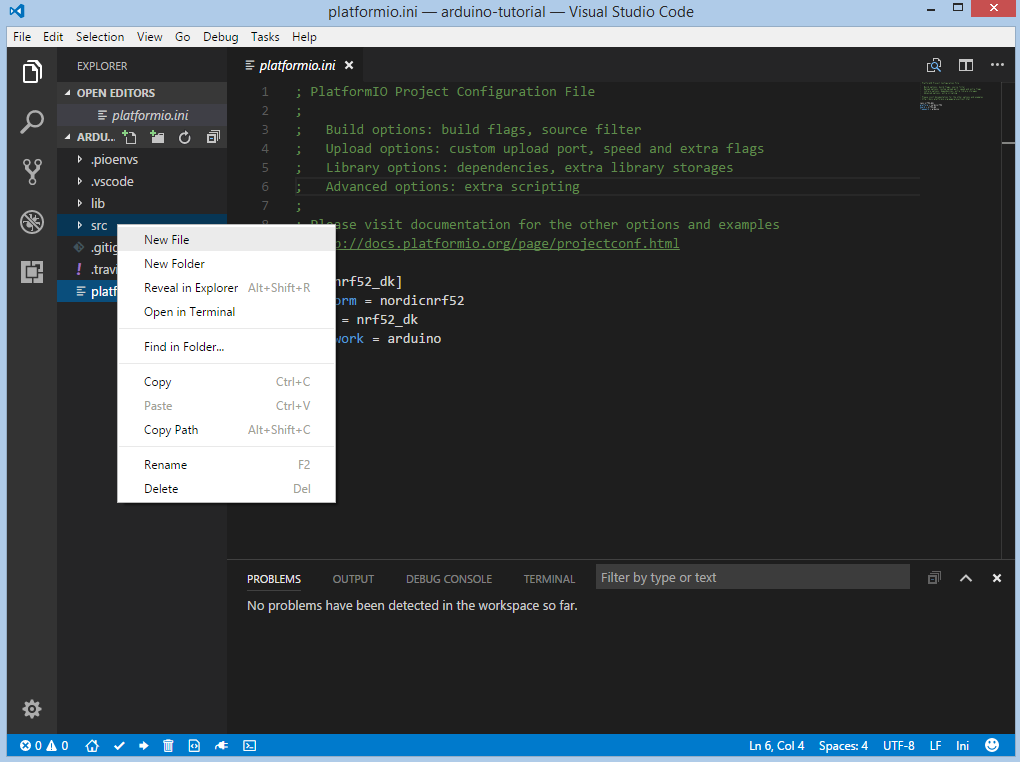
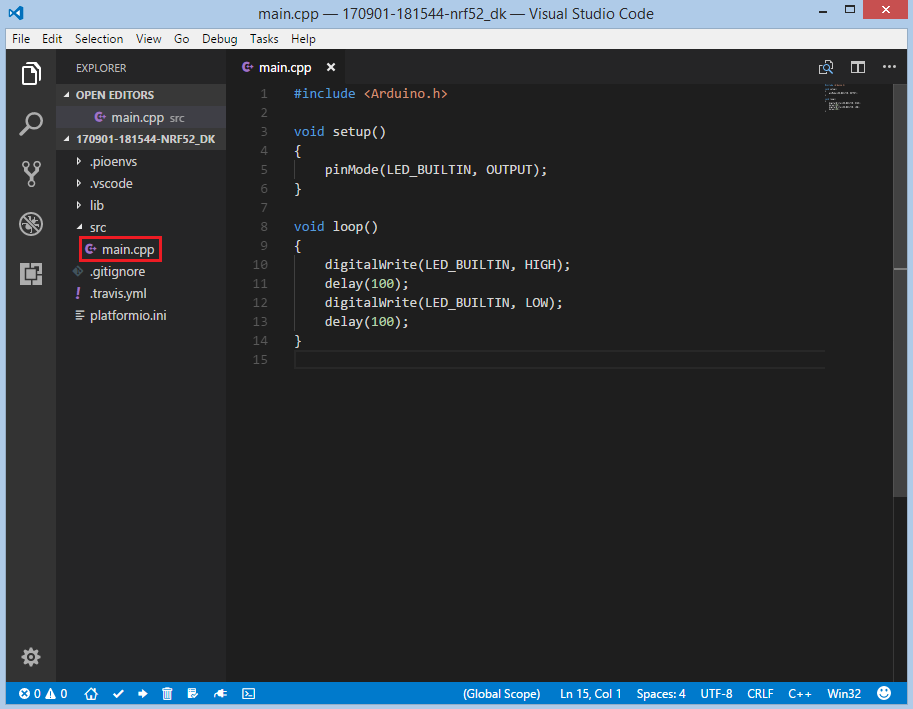
Update nordicnrf52 tutorial with PIO Home screens

Changed region(s): [[0.0, 0.0, 1.0, 0.9929], [0.2453, 0.7137, 0.92, 0.8068], [0.0, 0.8999, 0.3067, 0.9929]]

diff --git a/tutorials/nordicnrf52/arduino_debugging_unit_testing.rst b/tutorials/nordicnrf52/arduino_debugging_unit_testing.rst
@@ -30,12 +30,11 @@ The goal of this tutorial is to demonstrate how simple it is to use :ref:`ide_vs
 Setting Up the Project
 ----------------------
 
-At first we need to create an empty folder for our project (or use existing), then we can open this folder using ``Menu: File > Open folder...`` or using hotkeys 
-``cmd-alt-k / ctrl-alt-k + cmd-alt-o / ctrl-alt-o``:
+At first step, we need to create a new project using PlatformIO Home Page (to open this page just press Home icon on the toolbar):
 
 .. image:: ../../_static/tutorials/nordicnrf52/arduino-debugging-unit-testing-1.png
 
-On the next step we need to initialize PlatformIO project for ``Nordic nRF52-DK`` board, to do this we can use Command Palette ``View: Command Palette > PlatformIO: Initialize or Update Project`` or hotkeys ``cmd-alt-i / ctrl-alt-i`` and search for the board by typing its name:
+On the next step we need to select ``Nordic nRF52-DK`` as a development board, :ref:`framework_arduino` as a framework and a path to the project location (or use the default one):
 
 .. image:: ../../_static/tutorials/nordicnrf52/arduino-debugging-unit-testing-2.png
 
@@ -45,11 +44,7 @@ and after these steps, we have a fully configured project that is ready for deve
 Adding Code to the Generated Project
 ------------------------------------
 
-Let's add some actual code to the project. Firstly, we create the main file named ``main.cpp`` in the :ref:`projectconf_pio_src_dir` folder. Right click on the ``src`` in the project tree:
-
-.. image:: ../../_static/tutorials/nordicnrf52/arduino-debugging-unit-testing-3.png
-
-Add this code to ``main.cpp``:
+Let's add some actual code to the project. Firstly, we open a default main file named ``main.cpp`` in the :ref:`projectconf_pio_src_dir` folder and replace its content with next one:
 
 .. code-block:: cpp
 
@@ -68,8 +63,9 @@ Add this code to ``main.cpp``:
         delay(100);
     } 
  
+.. image:: ../../_static/tutorials/nordicnrf52/arduino-debugging-unit-testing-3.png
 
-After this step, we created a basic blink project that is ready for compiling and uploading.
+After this step, we created a basic blink project ready for compiling and uploading.
 
 Compiling and Uploading the Firmware
 ------------------------------------
